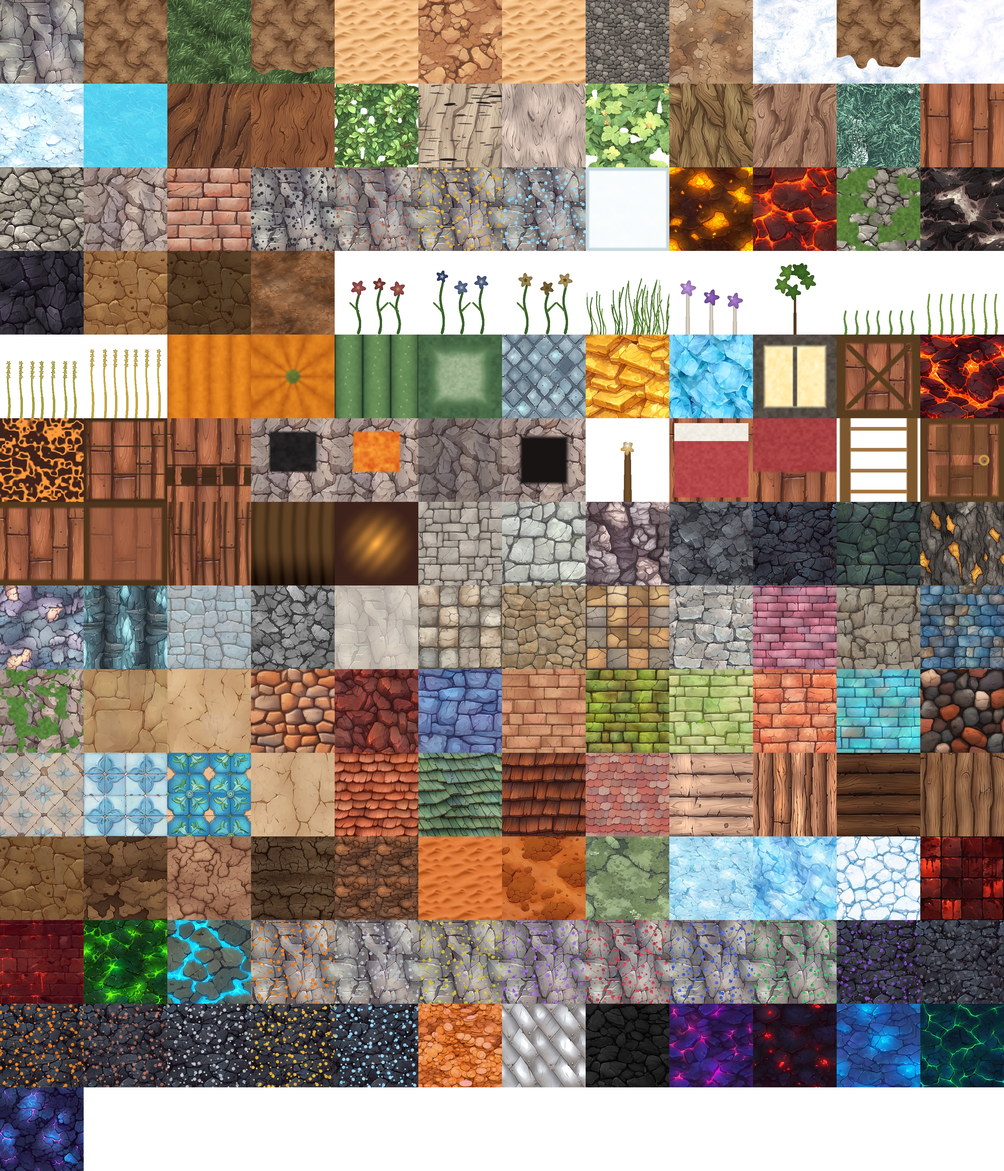
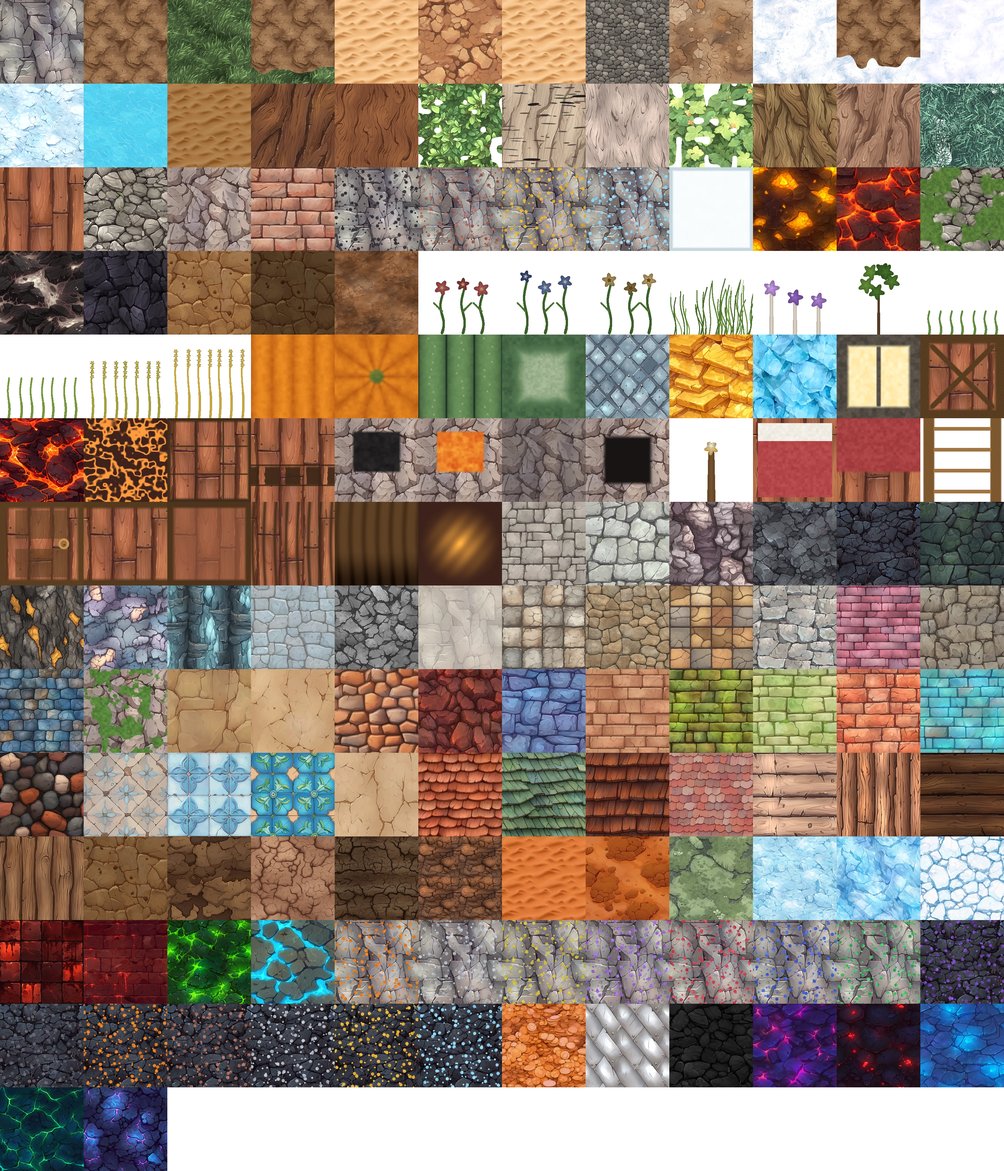
Move the springs to the fire, make ice slide, make quicksand mean it.
Four of the owner's twelve.

**Hot springs off the cap and onto the cinderlands.** A hot spring is
water heated from below, so a face of basalt and lava is where it
belongs and a snowfield is where it never made sense. Mountain stays,
because an alpine spring is the one temperate case that reads correctly.

**Ice is slippery.** There was no per-block friction anywhere, so every
surface gripped the same. GRIP is a new column on the block table read
by the player's ground acceleration and damping: ice 0.16, packed and
blue ice 0.10 (denser, more polished), snow 0.88, everything else 1.
Both terms are floored at the airborne numbers rather than going to
zero, or standing on ice would be standing on nothing. This matters more
than it would have yesterday: the polar cap is 66% ice, so it is most of
a face rather than the occasional frozen pond.

**Quicksand: stillness is the exit again.** The push-off was available
the instant the feet were in the top layer, so you could walk into a
pool and hop straight back out and the hazard never happened. It now
costs 0.9s of holding still, and any struggle - moving or holding Space
- spends it. The loop the pool teaches is the one it always claimed to:
stop, float, then push off. Powder snow deliberately keeps the old rule,
because it has no buoyancy to wait for and a calm timer there would make
it a hazard with no exit.

**Quicksand looks like sand.** Its top face was borrowing the `mud`
[…]

diff --git a/src/player/Player.js b/src/player/Player.js
@@ -7,7 +7,7 @@ import { GRAVITY, F, D, R_MIN, cidx } from '../world/Constants.js';
 import { cellToWorld, tangentFrame, stepColumn, normalizeCell } from '../world/Sphere.js';
 import {
   RENDER_TYPE, R_LIQUID, IS_SOLID, IS_SHAPED, IS_LADDER, IS_FENCE, IS_GATE, ID, collisionBoxes, isPassable,
-  CONTACT_HURT, CONTACT_POISON, SINK, SINK_BUOYANT,
+  CONTACT_HURT, CONTACT_POISON, SINK, SINK_BUOYANT, GRIP,
 } from '../world/Blocks.js';
 // Imported rather than re-declared so there is exactly one "how much slower is
 // water" number in the game. Items.js owns it, Skills.js quotes it in prose
@@ -128,6 +128,14 @@ const FLOW_PUSH = 11;
  * which is the trade the whole hazard is built on.
  */
 const SINK_MOVE = 0.32;
+/**
+ * Seconds of holding still before quicksand will let you push off.
+ *
+ * Long enough that the reflex - thrash, then jump - does not work and you have
+ * to notice that stopping is what helps. Short enough that once you have
+ * noticed, the way out is immediate rather than a wait.
+ */
+const SINK_CALM = 0.9;
 /**
  * Cells per second you rise while you hold still in a *buoyant* sink block.
  *
@@ -411,6 +419,7 @@ export class Player {
      * powder snow.
      */
     this.inSink = 0;
+    this._sinkCalm = 0;
     /** Its `SINK` rate, cached so the physics does not look the table up twice. */
     this.sinkRate = 0;
     /** Feet in the pool's top layer, which is the one place a jump works. */
@@ -1213,7 +1222,12 @@ export class Player {
     const w2 = this._toCellVelocity(wish.x * speed, wish.y * speed, wish.z * speed);
     const wi = w2.i, wj = w2.j;
 
-    const accel = this.grounded ? 42 : 11;
+    // Footing. Ice gives you almost none of the ground's grip, so you build
+    // speed slowly and keep it far too long - which is what sliding is. Held to
+    // a floor of the airborne numbers rather than going to zero, or standing on
+    // ice would be standing on nothing.
+    const grip = this.grounded ? GRIP[this.groundBlock()] ?? 1 : 1;
+    const accel = this.grounded ? Math.max(11, 42 * grip) : 11;
     if (moving) {
       const t = Math.min(1, accel * dt);
       this.vel.i += (wi - this.vel.i) * t;
@@ -1223,7 +1237,7 @@ export class Player {
       // of the keys in one and the body stops where it is rather than coasting,
       // which is what "held" feels like — and it also means holding still is a
       // clean, unambiguous input rather than a slow drift you have to wait out.
-      const damp = this.inSink ? 18 : this.grounded ? 14 : this.inWater ? 4 : 1.2;
+      const damp = this.inSink ? 18 : this.grounded ? Math.max(1.2, 14 * grip) : this.inWater ? 4 : 1.2;
       const f2 = Math.max(0, 1 - damp * dt);
       this.vel.i *= f2; this.vel.j *= f2;
     }
@@ -1381,10 +1395,24 @@ export class Player {
        * worse than either hazard on its own.
        */
       const buoyant = SINK_BUOYANT[this.inSink] === 1;
-      if (this.sinkTop && input.down('Space')) {
+      const struggling = moving || input.down('Space');
+      // Stillness is the mechanic, so stillness has to be what buys the exit.
+      // The jump used to be available the instant the feet were in the top
+      // layer, which meant you could walk into a pool and hop straight back out
+      // without the hazard ever happening: "I can jump out of quicksand I
+      // thought not moving is way to escape it". Now the pool has to let go of
+      // you first - hold still, float up, and the push-off arrives a beat
+      // later. Any struggle spends it.
+      //
+      // Snow keeps the old rule and must: it has no buoyancy to wait for, so a
+      // calm timer there would be a hazard with no exit, which the note above
+      // records as the thing this must never become.
+      this._sinkCalm = buoyant
+        ? (struggling ? 0 : this._sinkCalm + dt)
+        : SINK_CALM;
+      if (this.sinkTop && input.down('Space') && this._sinkCalm >= SINK_CALM) {
         this.vel.k = 8.4;
       } else if (buoyant) {
-        const struggling = moving || input.down('Space');
         const target = struggling ? -this.sinkRate : SINK_RISE;
         this.vel.k += (target - this.vel.k) * Math.min(1, SINK_RATE_LERP * dt);
       } else {

diff --git a/src/world/Blocks.js b/src/world/Blocks.js
@@ -144,7 +144,7 @@ export const R_MODEL = 13;
 // ---------------------------------------------------------------------------
 export const TILES = [
   'stone', 'dirt', 'grass_top', 'grass_side', 'sand', 'sandstone', 'sandstone_top',
-  'gravel', 'clay', 'snow', 'snow_side', 'powder_snow', 'ice', 'water',
+  'gravel', 'clay', 'snow', 'snow_side', 'powder_snow', 'ice', 'water', 'quicksand',
   'log_oak', 'log_oak_top', 'leaves_oak',
   'log_birch', 'log_birch_top', 'leaves_birch',
   'log_pine', 'log_pine_top', 'leaves_pine',
@@ -1395,7 +1395,7 @@ export const BLOCKS = [
   // dune beside it is a plank across, not a filling-in, and the pool is still
   // there underneath when the plank is broken.
   block({
-    name: 'quicksand', label: 'Quicksand', top: 'mud', side: 'sand', bottom: 'sand',
+    name: 'quicksand', label: 'Quicksand', all: 'quicksand',
     solid: false, sink: 0.9, buoyant: true, hardness: 0.5, tool: 'shovel',
     particle: [0.56, 0.47, 0.33], sound: 'sand',
   }),
@@ -1514,6 +1514,15 @@ if (N_BLOCKS > 256) {
 export const IS_OPAQUE = new Uint8Array(N_BLOCKS);
 export const IS_SOLID = new Uint8Array(N_BLOCKS);
 /** Foliage cubes. The mesher culls leaf-against-leaf faces, "fast leaves" style. */
+/**
+ * How much of the ground's grip a block gives, 0..1. 1 is ordinary footing.
+ *
+ * Ice is the reason this exists and the polar cap is why it matters: two thirds
+ * of that face is ice, so this is most of a whole side of the planet rather
+ * than the occasional frozen pond.
+ */
+export const GRIP = new Float32Array(N_BLOCKS).fill(1);
+
 export const IS_LEAF = new Uint8Array(N_BLOCKS);
 /**
  * Wood or foliage — the parts of a tree a climber can hold on to.
@@ -2293,6 +2302,12 @@ for (let i = 0; i < N_BLOCKS; i++) {
   IS_OPAQUE[i] = b.opaque ? 1 : 0;
   IS_SOLID[i] = b.solid ? 1 : 0;
   IS_LEAF[i] = b.name.startsWith('leaves') ? 1 : 0;
+  // Packed and blue ice are denser and read as more polished, so they are
+  // slicker than a frozen puddle. Snow is not ice: it grips very slightly less
+  // than soil, which is enough to feel without being a hazard.
+  GRIP[i] = b.name === 'ice' ? 0.16
+    : (b.name === 'packed_ice' || b.name === 'blue_ice') ? 0.10
+      : b.name === 'snow' ? 0.88 : 1;
   // A *standing* tree. The lying logs are deliberately out: IS_TREE answers
   // "can a climber hold on to this?", and a log on the forest floor is a thing
   // you step over, not a handhold. In it, a monkey beside a one-cell-high

diff --git a/src/world/WorldGen.js b/src/world/WorldGen.js
@@ -375,7 +375,12 @@ const SPRING_RD = 1.5;         // the deep middle; outside it the pool is a shel
  * which is a feature you would not find. This puts it back to the same order.
  */
 const SPRING_CHANCE = 0.14;
-const SPRING_BIOMES = [BIOME.SNOW, BIOME.TUNDRA, BIOME.MOUNTAIN];
+// Moved off the cap and onto the cinderlands. A hot spring is water heated
+// from below, so a face of basalt and lava is where it belongs and a snowfield
+// is where it never made sense - the owner: "having hotsprings in snow face
+// doesn't make sense, perhaps put that hotspring in magma face". Mountain stays
+// because an alpine spring is the one temperate case that reads correctly.
+const SPRING_BIOMES = [BIOME.CINDER, BIOME.MOUNTAIN];
 
 /**
  * Waterfalls: a seep in a cliff face, falling into water that is already there.
